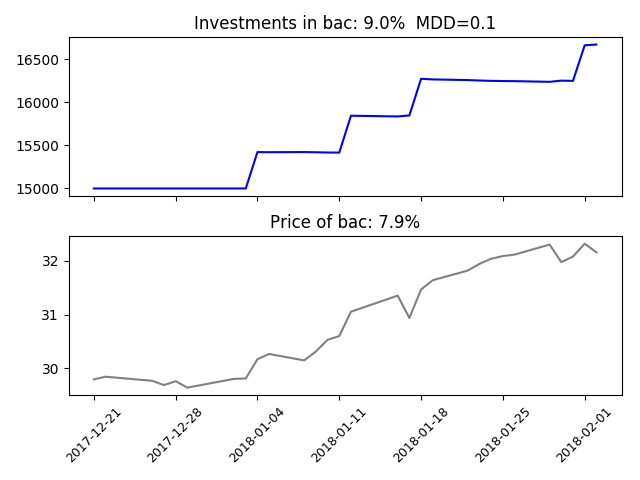
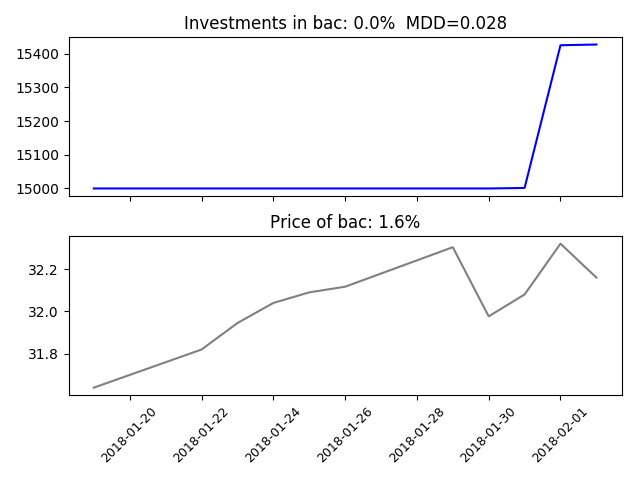
Implementing grid search

diff --git a/environment.py b/environment.py
@@ -30,6 +30,68 @@ class Environment(object):
         agent.update_assets(sum(investments) + liquid)
 
 
+def trade(loss, statsModel, p, sharePer, startDate, startingCapital, stop, ticker, plotting=False):
+    """Initialize Environment"""
+    # Data
+    manager = CollectionManager('5Y_technicals', MongoClient()['AlgoTradingDB'])
+
+    # Time
+    dates = manager.dates()
+    currentDate = startDate
+    startDay = dates.index(currentDate)
+    stopDay = dates.index(stop)
+    bar = utils.ProgressBar(stopDay - startDay)
+
+    # Predictive Model
+    if statsModel == 'Arima':
+        model = ArimaModel(1, 1, 0, ticker)
+
+    # Investor, Strategy and Trading Environment
+    stopLoss = (1 - loss) * startingCapital
+    tradingStrategy = Strategy(model, manager, ticker, currentDate, stopLoss, p)
+    investor = InvestorAgent(startingCapital, tradingStrategy, startDay)
+    environment = Environment(manager, investor, startDay)
+
+    # Simulate Trading Environment
+    bar.initialize()
+    for d in range(startDay, stopDay):
+        if len(investor.positions):
+            for position in investor.positions:
+                actionDay = utils.laterDate(position.startDate,
+                                            position.holdTime)  # Todo: perhaps get rid of actionDay with changing direction
+                currentPrice = investor.check_price(environment.currentDate)
+                if environment.currentDate == actionDay or position.at_trigger_point(currentPrice):
+                    position.sell(investor, currentPrice)
+
+        T = investor.strategy.arithmetic_returns(5, environment.day)
+        sig = investor.signal(T)
+        if sig != 0:
+            investor.strategy.make_position(investor, sig, environment.currentDate, stopLoss,
+                                            sharePer)  # Todo: if switching dir of position, close opposite dir
+            # investor.strategy.close_opposing_positions(investor.positions,investor,investor.check_price(dates[d]))
+        environment.update_total_assets(investor)
+        environment.increment_day(investor.strategy)
+        bar.progress()
+
+    """PLOTTING"""
+    actualPrice = avg_price_timeseries(manager, ticker, dates[startDay:stopDay])
+    if not len(investor.capitalHistory):
+        expReturn = 0
+    else:
+        expReturn = round(((investor.capitalHistory[len(
+            investor.capitalHistory) - 1] - startingCapital) / startingCapital) * 100)
+    gain = str(expReturn) + '%'
+
+    possible = round(((actualPrice[-1] - actualPrice[0]) / actualPrice[0]) * 100, 1)
+    mdd = utils.MDD(investor.totalAssetHistory)
+    if plotting:
+        utils.plot_capital(investor.totalAssetHistory, dates[startDay:stopDay], ticker, actualPrice, gain, mdd,
+                           possible)
+
+    results = {'p': p, 'sharePer': sharePer, 'MDD': mdd, 'return': expReturn}
+    return (results)
+
+
 if __name__ == '__main__':
     warnings.filterwarnings("ignore")
 
@@ -48,59 +110,5 @@ if __name__ == '__main__':
     parser.add_argument('--stop', help='stop date YYYY-MM-DD', default='2018-02-05', required=False, type=str)
     args = parser.parse_args()
 
-    """Initialize Environment"""
-    # Data
-    manager = CollectionManager('5Y_technicals', MongoClient()['AlgoTradingDB'])
-
-    # Time
-    dates = manager.dates()
-    currentDate = args.startDate
-    startDay = dates.index(currentDate)
-    stopDay = dates.index(args.stop)
-    bar = utils.ProgressBar(stopDay - startDay)
-
-    # Predictive Model
-    if args.model == 'Arima':
-        model = ArimaModel(1, 1, 0, args.ticker)
-
-    # Investor, Strategy and Trading Environment
-    stopLoss = (1 - args.loss) * args.startingCapital
-    tradingStrategy = Strategy(model, manager, args.ticker, currentDate, stopLoss, args.p)
-    investor = InvestorAgent(args.startingCapital, tradingStrategy, startDay)
-    environment = Environment(manager, investor, startDay)
-
-
-    # Simulate Trading Environment
-    bar.initialize()
-    for d in range(startDay, stopDay):
-        # If investor is already holding one or more positions
-        if len(investor.positions):
-            for position in investor.positions:
-                actionDay = utils.laterDate(position.startDate,
-                                            position.holdTime)  # Todo: perhaps get rid of actionDay with changing direction
-                currentPrice = investor.check_price(environment.currentDate)
-                if environment.currentDate == actionDay or position.at_trigger_point(currentPrice):
-                    position.sell(investor, currentPrice)
-
-        T = investor.strategy.arithmetic_returns(5, environment.day)
-        sig = investor.signal(T)
-        if sig != 0:
-            investor.strategy.make_position(investor, sig, environment.currentDate, stopLoss,
-                                            args.sharePer)  # Todo: if switching dir of position, close opposite dir
-        environment.update_total_assets(investor)
-        environment.increment_day(investor.strategy)
-        bar.progress()
-
-
-    """PLOTTING"""
-    actualPrice = avg_price_timeseries(manager, args.ticker, dates[startDay:stopDay])
-    if not len(investor.capitalHistory):
-        gain = 0
-    else:
-        gain = str(round(((investor.capitalHistory[len(
-            investor.capitalHistory) - 1] - args.startingCapital) / args.startingCapital) * 100)) + '%'
-
-    possible = round(((actualPrice[-1] - actualPrice[0]) / actualPrice[0]) * 100, 1)
-    mdd = utils.MDD(investor.totalAssetHistory)
-    utils.plot_capital(investor.totalAssetHistory, dates[startDay:stopDay], args.ticker, actualPrice, gain, mdd,
-                       possible)
+    trade(args.loss, args.model, args.p, args.sharePer, args.startDate, args.startingCapital, args.stop, args.ticker,
+          plotting=True)

diff --git a/strategy.py b/strategy.py
@@ -4,9 +4,12 @@ from putAndGetData import get_day_stats
 from arima import ArimaModel
 from putAndGetData import get_closes_highs_lows
 import utils
+from datetime import datetime as dt
+from datetime import timedelta
+
 
 class Strategy(object):
-    def __init__(self,predictionModel,manager,ticker,currentDate,stopLoss,p=0.02,train_size=0.8,patience=10):
+    def __init__(self, predictionModel, manager, ticker, currentDate, stopLoss, p=0.02, train_size=0.8, patience=10):
         self.predModel = predictionModel
         self.manager = manager
         self.ticker = ticker
@@ -14,19 +17,19 @@ class Strategy(object):
         self.p = p
         self.stopLoss = stopLoss
         self.closes, self.highs, self.lows, self.dates = get_closes_highs_lows(manager, ticker)
-        self.train_size=train_size
+        self.train_size = train_size
         self.patience = patience
 
-    def daily_avg_price(self,date,close=None,high=None,low=None):
+    def daily_avg_price(self, date, close=None, high=None, low=None):
         if not close:
             close, high, low = get_day_stats(self.manager, self.ticker, date)
         return (close + high + low) / 3.0
 
-    def percent_variation(self,close, *args):
+    def percent_variation(self, close, *args):
         P = self.predModel(*args)
         return ((P - close) / close)
 
-    def arithmetic_returns(self, k,date):
+    def arithmetic_returns(self, k, date):
         Vi = []
         close = self.closes[date]
         predC = []
@@ -34,38 +37,49 @@ class Strategy(object):
         predL = []
         for j in range(1, k + 1):
             d = utils.laterDate(self.currentDate, j)
-            predictedClose = self.predModel.fit(self.closes[:date]+predC)
-            predictedHigh = self.predModel.fit(self.highs[:date]+predH)
-            predictedLow = self.predModel.fit(self.lows[:date]+predL)
-            predictedAvgPrice = self.daily_avg_price(d,predictedClose,predictedHigh,predictedLow)
-            Vi.append((predictedAvgPrice-close)/close)
+            predictedClose = self.predModel.fit(self.closes[:date] + predC)
+            predictedHigh = self.predModel.fit(self.highs[:date] + predH)
+            predictedLow = self.predModel.fit(self.lows[:date] + predL)
+            predictedAvgPrice = self.daily_avg_price(d, predictedClose, predictedHigh, predictedLow)
+            Vi.append((predictedAvgPrice - close) / close)
             predC.append(predictedClose)
             predH.append(predictedHigh)
             predL.append(predictedLow)
         significantReturns = [v for v in Vi if abs(v) > self.p]
-        return(sum(significantReturns))
+        return (sum(significantReturns))
 
-    def make_position(self,agent,signal,date,stopLoss,sharePercent=1):
-        shareNum = int(agent.buying_power(date)*sharePercent) #Todo:Completely change based on T
+    def make_position(self, agent, signal, date, stopLoss, sharePercent=1):
+        shareNum = int(agent.buying_power(date) * sharePercent)  # Todo:Completely change based on T
         if shareNum == 0:
             return None
         if signal == 1:
-            agent.long(shareNum,date,stopLoss)
+            agent.long(shareNum, date, stopLoss)
         if signal == -1:
-            agent.short(shareNum,date,stopLoss)
+            agent.short(shareNum, date, stopLoss)
+
+    def close_opposing_positions(self, positions, agent, price):
+        numOfPositions = len(positions)
+        if numOfPositions <= 1:
+            return None
+        newPosition = positions[numOfPositions - 1]
+        for pos in positions[:numOfPositions - 1]:
+            impatient = dt.strptime(newPosition.startDate, "%Y-%m-%d") - dt.strptime(pos.startDate,
+                                                                                        "%Y-%m-%d") < timedelta(days=5)
+            if type(pos) != type(newPosition) and not impatient:
+                pos.sell(agent, price)
 
 
 if __name__ == '__main__':
     manager = CollectionManager('5Y_technicals', MongoClient()['AlgoTradingDB'])
     # tickers = [t.lower() for t in list(pd.read_csv('stocks.csv')['Symbol'])]
     ticker = 'googl'
-    k=5
-    days=(365,450)
+    k = 5
+    days = (365, 450)
     model = ArimaModel(1, 1, 0, ticker)
     stopLoss = 100  # Todo: determine this?
     dates = manager.dates()
-    p = 0.01  #Todo: Grid search to determine this
-    for d in range(days[0],days[1]):
+    p = 0.01  # Todo: Grid search to determine this
+    for d in range(days[0], days[1]):
         date = dates[d]
-        strat = Strategy(model,manager,ticker,date,stopLoss,p)
+        strat = Strategy(model, manager, ticker, date, stopLoss, p)
         print(strat.arithmetic_returns(k, d))

diff --git a/gridSearch.py b/gridSearch.py
@@ -1,0 +1,59 @@
+import numpy as np
+import pandas as pd
+from mongoObjects import CollectionManager, MongoDocument, MongoClient
+from environment import trade
+import warnings
+import argparse
+
+"""
+2D Grid search 
+---------------
+p: (0.001,0.05,0.001) 50 possible values
+sharePer: (0.01,1.0,0.02) 50 possible values
+
+
+mongoDB
+---------------
+stock: ticker
+p: value of p
+sharePer: value of sharePer
+MDD: downshare
+return: return percentage
+"""
+
+
+def save_results(dict, manager, ticker):
+    newDoc = MongoDocument(dict, ticker, [])
+    manager.insert(newDoc)
+
+
+if __name__ == '__main__':
+    warnings.filterwarnings("ignore")
+
+    """Arguments"""
+    parser = argparse.ArgumentParser()
+    parser.add_argument('--model', choices=['Arima'], metavar='M',
+                        help='predictive model to use', default='Arima', required=False)  # Todo: add other choices
+    parser.add_argument('--startDate', help='start date YYYY-MM-DD', default='2017-01-05', required=False, type=str)
+    parser.add_argument('--startingCapital', help='amount of money to start with', default=5000.00, type=float,
+                        required=False)
+    parser.add_argument('--loss', help='percent of money you are willing to lose', default=.30, type=float,
+                        required=False)
+    parser.add_argument('--p', help='percent change to flag', default=0.03, type=float, required=False)
+    parser.add_argument('--ticker', help='stock to consider', default='aapl', type=str, required=False)
+    parser.add_argument('--sharePer', help='percent possible shares to buy', default=1.0, type=float, required=False)
+    parser.add_argument('--stop', help='stop date YYYY-MM-DD', default='2018-02-05', required=False, type=str)
+    args = parser.parse_args()
+
+    """GRID SEARCH"""
+    ps = np.arange(0.001, 0.051, 0.001)
+    sharePers = np.arange(0.01, 1.01, 0.02)
+    stocks = [symbol.lower() for symbol in list(pd.read_csv('stocks.csv')['Symbol'])]
+    manager = CollectionManager('grid_search', MongoClient()['AlgoTradingDB'])
+
+    # for stock in stocks:
+    #     data = {'p': 0.01, 'sharePer': 0.05, 'MDD': 0.1, 'Return': 0.1}
+    #     save_results(data,manager,stock)
+
+    trade(args)
+
